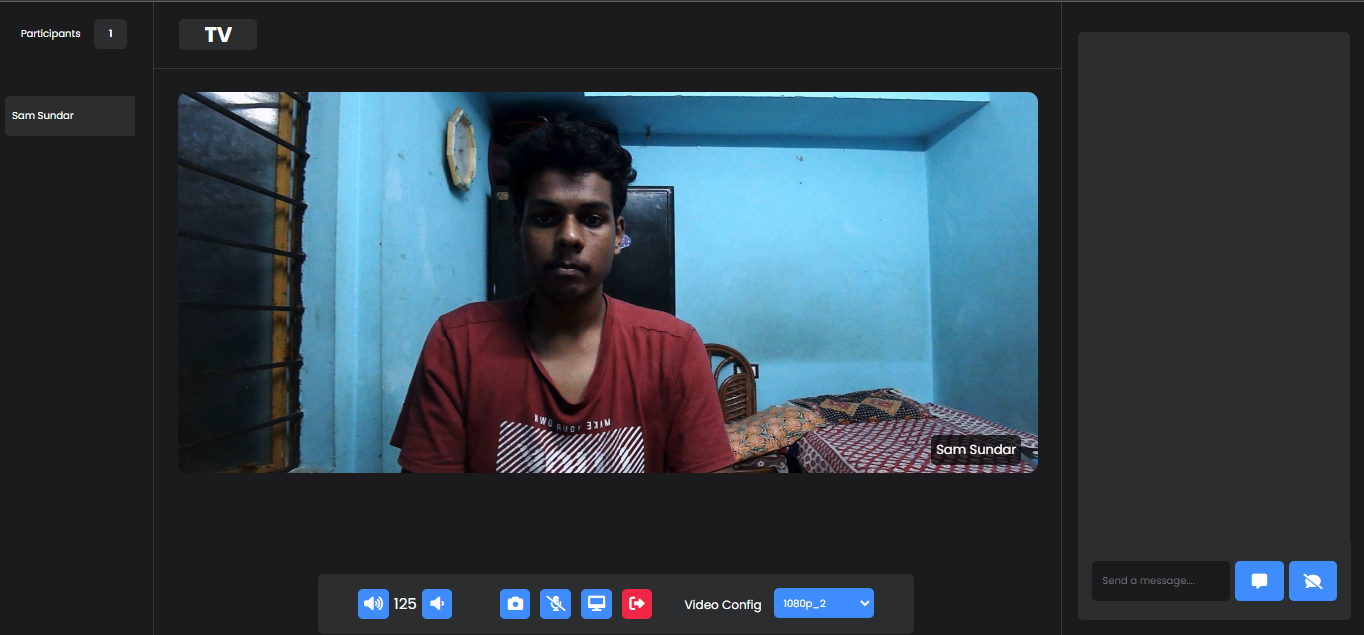
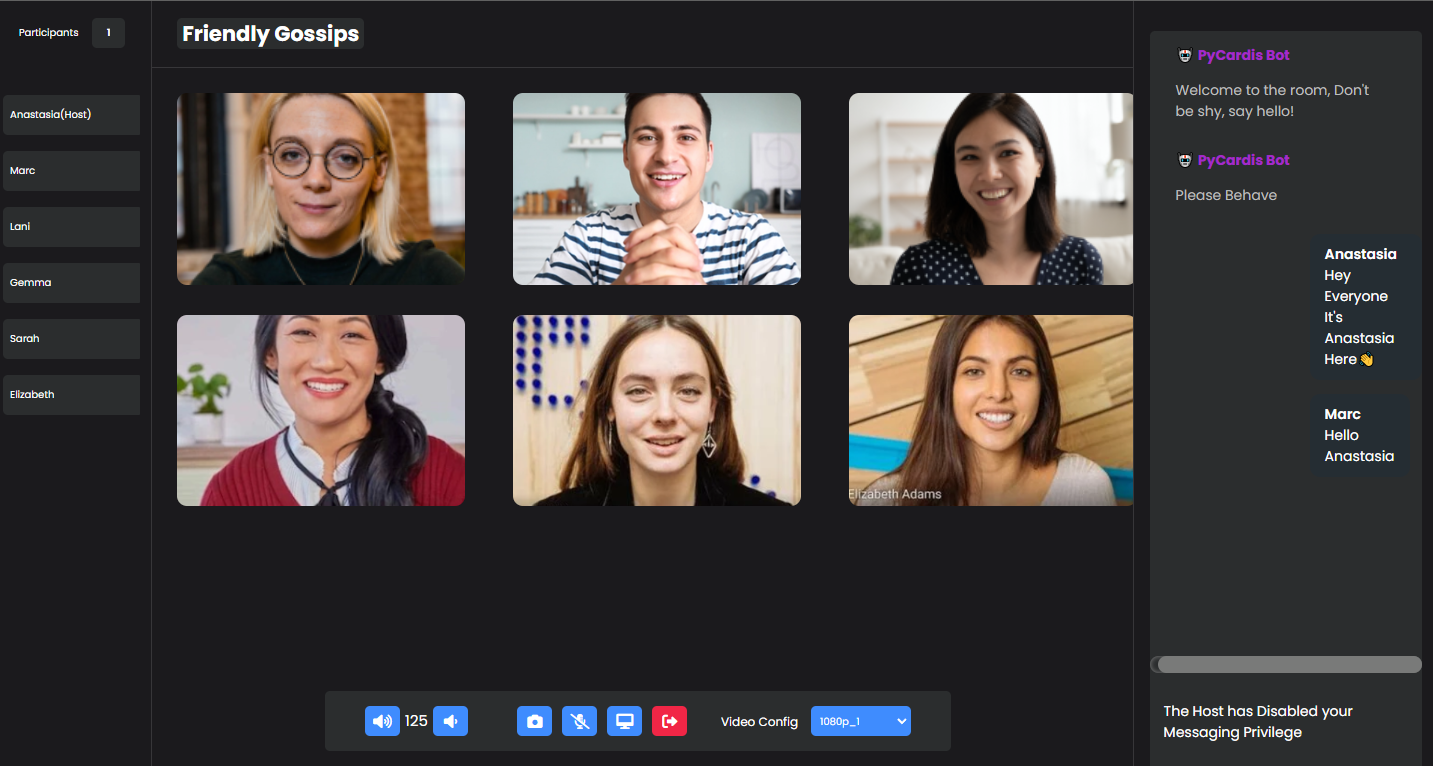
Added Preview Images

diff --git a/src/components/RoomComponents/ChatRoom.js b/src/components/RoomComponents/ChatRoom.js
@@ -208,9 +208,9 @@ function ChatRoom(props) {
                         <p style={{ marginLeft: '7px' }} className="member_name">Marc </p>
 
                         <div style={{ display: 'inherit' }}>
-                            <button ><i class="fa-solid fa-circle-xmark"></i></button>
+                           
 
-                            <button><i class="fa-solid fa-comment-slash"></i></button>
+                           
                         </div>
                     </div>
                     <div className="member__wrapper" id="member__1__wrapper">
@@ -219,9 +219,9 @@ function ChatRoom(props) {
                         <p style={{ marginLeft: '7px' }} className="member_name">Lani </p>
 
                         <div style={{ display: 'inherit' }}>
-                            <button ><i class="fa-solid fa-circle-xmark"></i></button>
+                           
 
-                            <button><i class="fa-solid fa-comment-slash"></i></button>
+                           
                         </div>
                     </div>
                     <div className="member__wrapper" id="member__1__wrapper">
@@ -230,9 +230,9 @@ function ChatRoom(props) {
                         <p style={{ marginLeft: '7px' }} className="member_name">Gemma </p>
 
                         <div style={{ display: 'inherit' }}>
-                            <button ><i class="fa-solid fa-circle-xmark"></i></button>
+                           
 
-                            <button><i class="fa-solid fa-comment-slash"></i></button>
+                           
                         </div>
                     </div>
                     <div className="member__wrapper" id="member__1__wrapper">
@@ -241,9 +241,9 @@ function ChatRoom(props) {
                         <p style={{ marginLeft: '7px' }} className="member_name">Sarah </p>
 
                         <div style={{ display: 'inherit' }}>
-                            <button ><i class="fa-solid fa-circle-xmark"></i></button>
+                           
 
-                            <button><i class="fa-solid fa-comment-slash"></i></button>
+                           
                         </div>
                     </div>
                     <div className="member__wrapper" id="member__1__wrapper">
@@ -252,9 +252,9 @@ function ChatRoom(props) {
                         <p style={{ marginLeft: '7px' }} className="member_name">Elizabeth </p>
 
                         <div style={{ display: 'inherit' }}>
-                            <button ><i class="fa-solid fa-circle-xmark"></i></button>
+                           
 
-                            <button><i class="fa-solid fa-comment-slash"></i></button>
+                           
                         </div>
                     </div>
                     {/* {users.slice(1, 10).map(user => (
@@ -297,17 +297,17 @@ function ChatRoom(props) {
                             </p>
                         </div>
                     </div>
-                    <div  style={{ color: 'white', marginLeft:  '1em'  }} onClick={(e) => {
+                    <div  style={{ color: 'white', marginLeft:  '12em'  }} onClick={(e) => {
                     }} className="message__wrapper">
                         <div style={{ color: 'white', backgroundColor:  '#252D33'  }} className={`message__body`}>
-                            <strong style={{ color: 'white' }} className="message__author">you</strong>
+                            <strong style={{ color: 'white' }} className="message__author">Anastasia</strong>
 
                             <p className={`message__text`}>Hey Everyone It's Anastasia Here👋</p>
                         </div>
                     </div>
                     <div  style={{ color: 'white', marginLeft: '12em' }} onClick={(e) => {
                     }} className="message__wrapper">
-                        <div style={{ color: 'white', backgroundColor: '#51B66D' }} className={`message__body`}>
+                        <div style={{ color: 'white', backgroundColor: '#252D33' }} className={`message__body`}>
                             <strong style={{ color: 'white' }} className="message__author">Marc</strong>
 
                             <p className={`message__text`}>Hello Anastasia</p>
@@ -331,21 +331,8 @@ function ChatRoom(props) {
                 <form id="message__form" onSubmit={(e) => {
                     e.preventDefault();
                 }}>
-                    {disable ? <>
-                        <input type="text" name="message" onChange={(e) => {
-                            setTextInput(e.target.value);
-                        }} placeholder="Send a message...." />
-
-                        <button className="send" onClick={(e) => {
-                            e.preventDefault();
-                            sendMsg(textInput, false);
-                        }} style={{ marginTop: '5px' }}><i className="fa-solid fa-message"></i></button>
-                        <button className="send" id="second" onClick={(e) => {
-                            e.preventDefault();
-                            sendMsg(textInput, true);
-                        }} style={{ marginTop: '5px', marginLeft: '5px' }}><i class="fa-solid fa-comment-slash"></i></button>
-                    </> : <p>The Host has Disabled your Messaging Privilege</p>
-                    }
+                     <p>The Host has Disabled your Messaging Privilege</p>
+                    
                 </form>
 
             </section>

diff --git a/src/components/RoomComponents/Display.js b/src/components/RoomComponents/Display.js
@@ -184,9 +184,9 @@ function Display(props) {
         <div style={{position:'relative',width:'100%'}}> 
         <div className="Room__Name" style={{width:'fit-content'}}><h1>Friendly Gossips</h1></div>
         
-        <button onClick={()=>{
+        {/* <button onClick={()=>{
           props.onChange();
-        }} style={{position:'absolute',top:'10%',right:'2%'}} id="disolve"><h1>Disolve Room</h1></button>
+        }} style={{position:'absolute',top:'10%',right:'2%'}} id="disolve"><h1>Disolve Room</h1></button> */}
        
         
          </div>  
